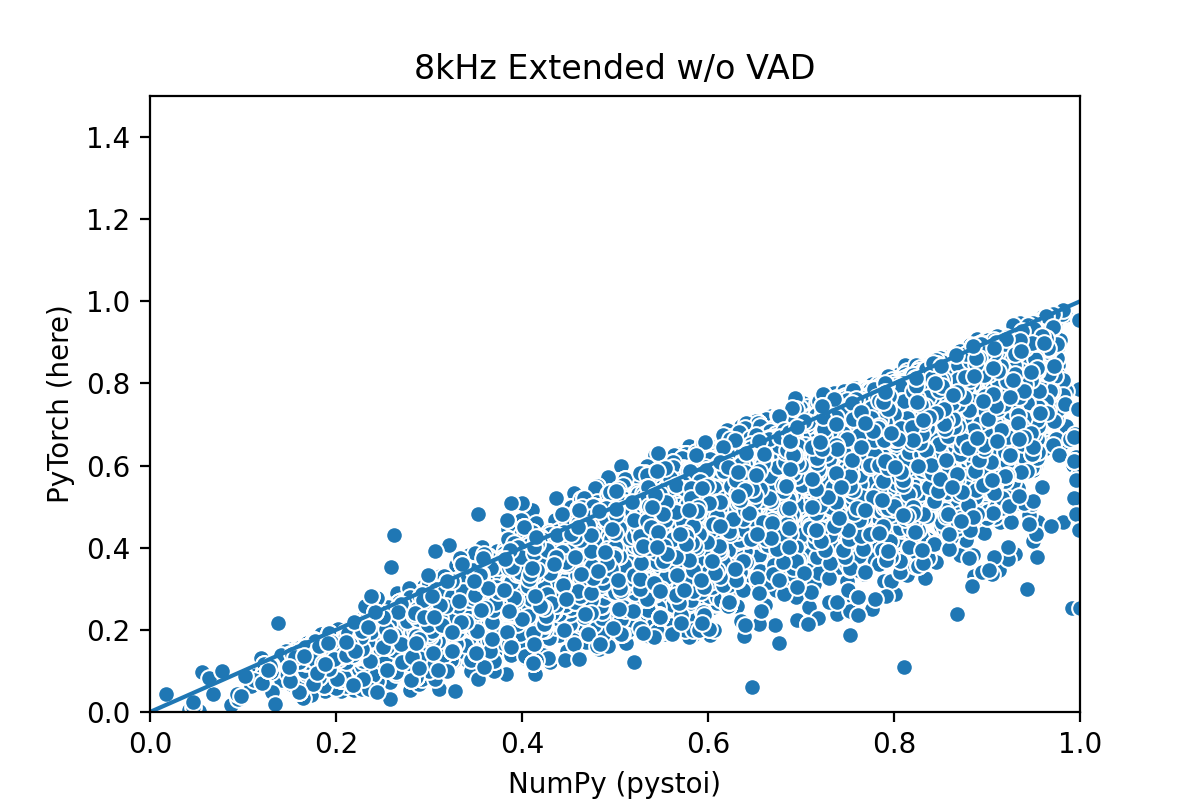
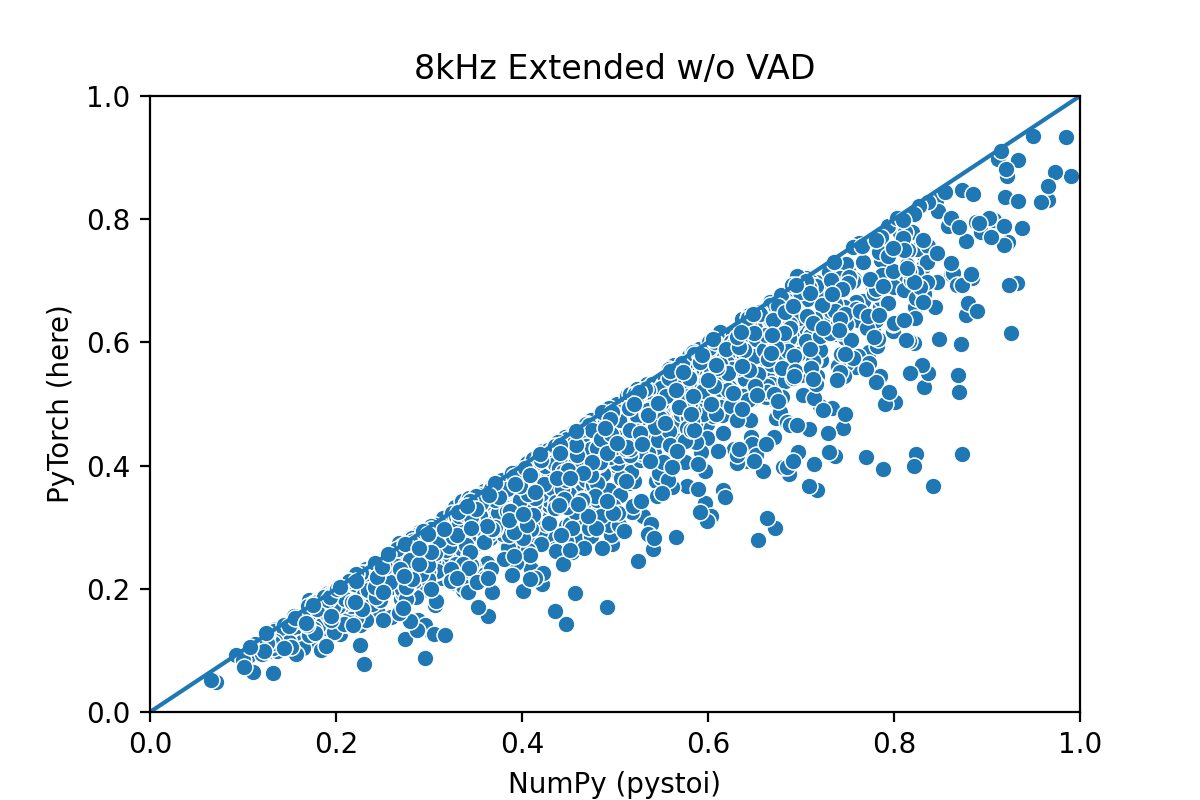
Update for near perfect correlation with `pystoi` (#9)
* Update for near perfect correlation with pystoi

* Revert resampling_method update

* Fix comments

* Fix CUDA processing

* Update plots

* Update to reflect https://github.com/mpariente/pystoi/pull/33

* Update plots

* Update docstring and README.md

diff --git a/torch_stoi/stoi.py b/torch_stoi/stoi.py
@@ -12,8 +12,8 @@ EPS = 1e-8
 class NegSTOILoss(nn.Module):
     """ Negated Short Term Objective Intelligibility (STOI) metric, to be used
         as a loss function.
-        Inspired from [1, 2, 3] but not exactly the same : cannot be used as
-        the STOI metric directly (use pystoi instead). See Notes.
+        Inspired from [1, 2, 3] but not exactly the same due to a different
+        resampling technique. Use pystoi when evaluating your system.
 
     Args:
         sample_rate (int): sample rate of audio input
@@ -31,18 +31,15 @@ class NegSTOILoss(nn.Module):
         been reduced.
 
     Warnings:
-        This function cannot be used to compute the "real" STOI metric as
-        we applied some changes to speed-up loss computation. See Notes section.
+        This function does not exactly match the "real" STOI metric due to a
+        different resampling technique. Use pystoi when evaluating your system.
 
     Notes:
-        In the NumPy version, some kind of simple VAD was used to remove the
-        silent frames before chunking the signal into short-term envelope
-        vectors. We don't do the same here because removing frames in a
-        batch is cumbersome and inefficient.
-        If `use_vad` is set to True, instead we detect the silent frames and
-        keep a mask tensor. At the end, the normalized correlation of
-        short-term envelope vectors is masked using this mask (unfolded) and
-        the mean is computed taking the mask values into account.
+        `use_vad` can be set to `False` to skip the VAD for efficiency. However
+        results can become substantially different compared to the "real" STOI.
+        When `True` (default), results are very close but still slightly
+        different due to a different resampling technique.
+        Compared against mpariente/pystoi@84b1bd8.
 
     References
         [1] C.H.Taal, R.C.Hendriks, R.Heusdens, J.Jensen 'A Short-Time
@@ -116,70 +113,111 @@ class NegSTOILoss(nn.Module):
                 est_targets.view(-1, wav_len),
                 targets.view(-1, wav_len),
             ).view(inner)
+        batch_size = targets.shape[0]
+
         if self.do_resample and self.sample_rate != FS:
             targets = self.resample(targets)
             est_targets = self.resample(est_targets)
 
+        if self.use_vad:
+            targets, est_targets, mask = self.remove_silent_frames(
+                targets, est_targets, self.dyn_range, self.win, self.win_len,
+                self.win_len//2
+            )
+
         # Here comes the real computation, take STFT
         x_spec = self.stft(targets, self.win, self.nfft, overlap=2)
         y_spec = self.stft(est_targets, self.win, self.nfft, overlap=2)
+        # Reapply the mask because of overlap in STFT
+        if self.use_vad:
+            x_spec *= mask.unsqueeze(1)
+            y_spec *= mask.unsqueeze(1)
+
+        """Uncommenting the following lines and the last block at the end
+        allows to replicate the pystoi behavior when less than N speech frames
+        are detected
+        """
+        # # Ensure at least 30 frames for intermediate intelligibility
+        # if self.use_vad:
+        #     not_enough = mask.sum(-1) < self.intel_frames
+        #     if not_enough.any():
+        #         import warnings
+        #         warnings.warn('Not enough STFT frames to compute intermediate '
+        #                       'intelligibility measure after removing silent '
+        #                       'frames. Returning 1e-5. Please check you wav '
+        #                       'files', RuntimeWarning)
+        #         if not_enough.all():
+        #             return torch.full(batch_size, 1e-5)
+        #         x_spec = x_spec[~not_enough]
+        #         y_spec = y_spec[~not_enough]
+        #         mask = mask[~not_enough]
+
         # Apply OB matrix to the spectrograms as in Eq. (1)
-        x_tob = torch.matmul(self.OBM, torch.norm(x_spec, 2, -1) ** 2 + EPS).pow(0.5)
-        y_tob = torch.matmul(self.OBM, torch.norm(y_spec, 2, -1) ** 2 + EPS).pow(0.5)
+        x_tob = torch.matmul(self.OBM, x_spec.abs().pow(2) + EPS).sqrt()
+        y_tob = torch.matmul(self.OBM, y_spec.abs().pow(2) + EPS).sqrt()
+
         # Perform N-frame segmentation --> (batch, 15, N, n_chunks)
-        batch = targets.shape[0]
         x_seg = unfold(x_tob.unsqueeze(2),
                        kernel_size=(1, self.intel_frames),
-                       stride=(1, 1)).view(batch, x_tob.shape[1], N, -1)
+                       stride=(1, 1)).view(batch_size, x_tob.shape[1], self.intel_frames, -1)
         y_seg = unfold(y_tob.unsqueeze(2),
                        kernel_size=(1, self.intel_frames),
-                       stride=(1, 1)).view(batch, y_tob.shape[1], N, -1)
-        # Compute mask if use_vad
+                       stride=(1, 1)).view(batch_size, y_tob.shape[1], self.intel_frames, -1)
+        # Reapply the mask because of overlap in N-frame segmentation
         if self.use_vad:
-            # Detech silent frames (boolean mask of shape (batch, 1, frame_idx)
-            mask = self.detect_silent_frames(targets, self.dyn_range,
-                                             self.win_len, self.win_len // 2)
-            mask = pad(mask, [0, x_tob.shape[-1] - mask.shape[-1]])
-            # Unfold on the mask, to float and mean per frame.
-            mask_f = unfold(mask.unsqueeze(2).float(),
-                            kernel_size=(1, self.intel_frames),
-                            stride=(1, 1)).view(batch, 1, N, -1)
-        else:
-            mask_f = None
+            mask = mask[..., self.intel_frames-1:]
+            x_seg *= mask.unsqueeze(1).unsqueeze(2)
+            y_seg *= mask.unsqueeze(1).unsqueeze(2)
 
         if self.extended:
             # Normalize rows and columns of intermediate intelligibility frames
-            x_n = self.rowcol_norm(x_seg, mask=mask_f)
-            y_n = self.rowcol_norm(y_seg, mask=mask_f)
+            # No need to pass the mask because zeros do not affect statistics
+            x_n = self.rowcol_norm(x_seg)
+            y_n = self.rowcol_norm(y_seg)
             corr_comp = x_n * y_n
-            correction = self.intel_frames * x_n.shape[-1]
+            corr_comp = corr_comp.sum(1)
+
         else:
             # Find normalization constants and normalize
-            norm_const = (masked_norm(x_seg, dim=2, keepdim=True, mask=mask_f) /
-                          (masked_norm(y_seg, dim=2, keepdim=True, mask=mask_f)
-                           + EPS))
+            # No need to pass the mask because zeros do not affect statistics
+            norm_const = (
+                x_seg.norm(p=2, dim=2, keepdim=True) /
+                (y_seg.norm(p=2, dim=2, keepdim=True) + EPS)
+            )
             y_seg_normed = y_seg * norm_const
             # Clip as described in [1]
             clip_val = 10 ** (-self.beta / 20)
             y_prim = torch.min(y_seg_normed, x_seg * (1 + clip_val))
             # Mean/var normalize vectors
-            y_prim = meanvar_norm(y_prim, dim=2, mask=mask_f)
-            x_seg = meanvar_norm(x_seg, dim=2, mask=mask_f)
+            # No need to pass the mask because zeros do not affect statistics
+            y_prim = y_prim - y_prim.mean(2, keepdim=True)
+            x_seg = x_seg - x_seg.mean(2, keepdim=True)
+            y_prim = y_prim / (y_prim.norm(p=2, dim=2, keepdim=True) + EPS)
+            x_seg = x_seg / (x_seg.norm(p=2, dim=2, keepdim=True) + EPS)
             # Matrix with entries summing to sum of correlations of vectors
             corr_comp = y_prim * x_seg
-            # J, M as in [1], eq.6
-            correction = x_seg.shape[1] * x_seg.shape[-1]
+            corr_comp = corr_comp.sum(2)
 
         # Compute average (E)STOI w. or w/o VAD.
-        sum_over = list(range(1, x_seg.ndim))  # Keep batch dim
+        output = corr_comp.mean(1)
         if self.use_vad:
-            corr_comp = corr_comp * mask_f
-            correction = correction * mask_f.mean() + EPS
-        # Return -(E)STOI to optimize for
-        return - torch.sum(corr_comp, dim=sum_over) / correction
+            output = output.sum(-1)/mask.sum(-1)
+        else:
+            output = output.mean(-1)
+
+        """Uncomment this to replicate the pystoi behavior when less than N
+        speech frames are detected
+        """
+        # if np.any(not_enough):
+        #     output_ = torch.empty(batch_size)
+        #     output_[not_enough] = 1e-5
+        #     output_[~not_enough] = output
+        #     output = output_
+
+        return - output
 
     @staticmethod
-    def detect_silent_frames(x, dyn_range, framelen, hop):
+    def remove_silent_frames(x, y, dyn_range, window, framelen, hop):
         """ Detects silent frames on input tensor.
         A frame is excluded if its energy is lower than max(energy) - dyn_range
 
@@ -193,54 +231,92 @@ class NegSTOILoss(nn.Module):
             torch.BoolTensor, framewise mask.
         """
         x_frames = unfold(x[:, None, None, :], kernel_size=(1, framelen),
-                          stride=(1, hop))[..., :-1]
+                          stride=(1, hop))
+        y_frames = unfold(y[:, None, None, :], kernel_size=(1, framelen),
+                          stride=(1, hop))
+        x_frames *= window[:, None]
+        y_frames *= window[:, None]
+
         # Compute energies in dB
         x_energies = 20 * torch.log10(torch.norm(x_frames, dim=1,
                                                  keepdim=True) + EPS)
         # Find boolean mask of energies lower than dynamic_range dB
         # with respect to maximum clean speech energy frame
-        mask = (torch.max(x_energies, dim=2, keepdim=True)[0] - dyn_range -
-                x_energies) < 0
-        return mask
+        mask = (x_energies.amax(2, keepdim=True) - dyn_range - x_energies) < 0
+        mask = mask.squeeze(1)
+
+        # Remove silent frames and pad with zeroes
+        x_frames = x_frames.permute(0, 2, 1)
+        y_frames = y_frames.permute(0, 2, 1)
+        x_frames = _mask_audio(x_frames, mask)
+        y_frames = _mask_audio(y_frames, mask)
+
+        x_sil = _overlap_and_add(x_frames, hop)
+        y_sil = _overlap_and_add(y_frames, hop)
+        x_frames = x_frames.permute(0, 2, 1)
+        y_frames = y_frames.permute(0, 2, 1)
+
+        mask, _ = mask.long().sort(-1, descending=True)
+
+        return x_sil, y_sil, mask
 
     @staticmethod
     def stft(x, win, fft_size, overlap=4):
+        """We can't use torch.stft:
+        - It's buggy with center=False as it discards the last frame
+        - It pads the frame left and right before taking the fft instead
+        of padding right
+        Instead we unfold and take rfft. This gives the same result as
+        pystoi.utils.stft.
+        """
         win_len = win.shape[0]
         hop = int(win_len / overlap)
-        # Last frame not taken because NFFT size is larger, torch bug IMO.
-        x_padded = torch.nn.functional.pad(x, pad=[0, hop])
-        # From torch 1.8.0
-        try:
-            return torch.stft(x_padded, fft_size, hop_length=hop, window=win,
-                            center=False, win_length=win_len, return_complex=False)
-        # Under 1.8.0
-        except TypeError:
-            return torch.stft(x_padded, fft_size, hop_length=hop, window=win,
-                center=False, win_length=win_len)
+        frames = unfold(x[:, None, None, :], kernel_size=(1, win_len),
+                        stride=(1, hop))
+        return torch.fft.rfft(frames*win[:, None], n=fft_size, dim=1)
 
     @staticmethod
-    def rowcol_norm(x, mask=None):
+    def rowcol_norm(x):
         """ Mean/variance normalize axis 2 and 1 of input vector"""
         for dim in [2, 1]:
-            x = meanvar_norm(x, mask=mask, dim=dim)
+            x = x - x.mean(dim, keepdim=True)
+            x = x / (x.norm(p=2, dim=dim, keepdim=True) + EPS)
         return x
 
 
-def meanvar_norm(x, mask=None, dim=-1):
-    x = x - masked_mean(x, dim=dim, mask=mask, keepdim=True)
-    x = x / (masked_norm(x, p=2, dim=dim, keepdim=True, mask=mask) + EPS)
-    return x
+def _overlap_and_add(x_frames, hop):
+    batch_size, num_frames, framelen = x_frames.shape
+    # Compute the number of segments, per frame.
+    segments = -(-framelen // hop)  # Divide and round up.
 
-
-def masked_mean(x, dim=-1, mask=None, keepdim=False):
-    if mask is None:
-        return x.mean(dim=dim, keepdim=keepdim)
-    return (x * mask).sum(dim=dim, keepdim=keepdim) / (
-        mask.sum(dim=dim, keepdim=keepdim) + EPS
+    # Pad the framelen dimension to segments * hop and add n=segments frames
+    signal = pad(
+        x_frames, (0, segments * hop - framelen, 0, segments)
     )
 
+    # Reshape to a 4D tensor, splitting the framelen dimension in two
+    signal = signal.reshape((batch_size, num_frames + segments, segments, hop))
+    # Transpose dimensions so shape = (batch, segments, frame+segments, hop)
+    signal = signal.permute(0, 2, 1, 3)
+    # Reshape so that signal.shape = (batch, segments * (frame+segments), hop)
+    signal = signal.reshape((batch_size, -1, hop))
 
-def masked_norm(x, p=2, dim=-1, mask=None, keepdim=False):
-    if mask is None:
-        return torch.norm(x, p=p, dim=dim, keepdim=keepdim)
-    return torch.norm(x * mask, p=p, dim=dim, keepdim=keepdim)
+    # Now behold the magic!! Remove last n=segments elements from second axis
+    signal = signal[:, :-segments]
+    # Reshape to (batch, segments, frame+segments-1, hop)
+    signal = signal.reshape(
+        (batch_size, segments, num_frames + segments - 1, hop)
+    )
+    # This has introduced a shift by one in all rows
+
+    # Now, reduce over the columns and flatten the array to achieve the result
+    signal = signal.sum(axis=1)
+    end = (num_frames - 1) * hop + framelen
+    signal = signal.reshape((batch_size, -1))[:end]
+    return signal
+
+
+def _mask_audio(x, mask):
+    return torch.stack([
+        pad(xi[mi], (0, 0, 0, len(xi) - mi.sum())) for xi, mi in zip(x, mask)
+    ])

diff --git a/README.md b/README.md
@@ -43,7 +43,7 @@ loss_batch.mean().backward()
 ```
 
 ### Comparing NumPy and PyTorch versions : the static test
-Values obtained with the NumPy version are compared to 
+Values obtained with the NumPy version (commit [84b1bd8](https://github.com/mpariente/pystoi/commit/84b1bd8f894c76eb5ddc3425946a4e2052e825fe)) are compared to
 the PyTorch version in the following graphs.  
 ##### 8kHz
 Classic STOI measure
